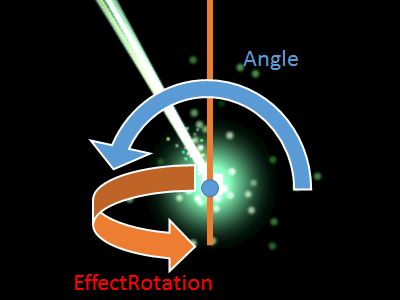
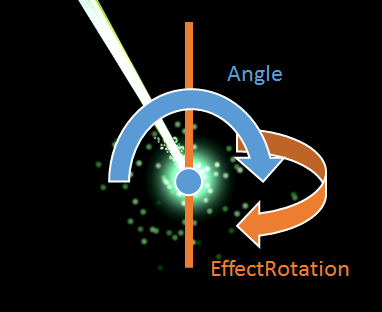
22章更新

Changed region(s): [[0.1728, 0.0, 0.9215, 0.99]]

diff --git a/Document/cs/22.md b/Document/cs/22.md
@@ -138,7 +138,7 @@ if (ace.Engine.Keyboard.GetKeyState(ace.Keys.Z) == ace.KeyState.Push)
 それでは、エフェクトを回転させてみます。ただ、提示されるソースコードでは2Dなのに回転方向を2つ指定しています。これは、3Dで作成されたエフェクトを2Dに表示するためです。
 回転軸が1つではエフェクトを任意の方向に回転させられません。その回転軸は以下のようになります。
 
-Angleは画面の正面方向を軸に半時計回り、EffectRotationは画面の上方向を軸に時計回りです。 
+Angleは画面の正面方向を軸に時計回り、EffectRotationは画面の上方向を軸に時計回りです。 
 
 ![Effekseer](img/22_angle.png)
 
@@ -150,7 +150,7 @@ if (ace.Engine.Keyboard.GetKeyState(ace.Keys.Z) == ace.KeyState.Push)
 {
 +	// エフェクトの角度を設定する。
 +	laser.EffectRotation = 90;
-+	laser.Angle = -90;
++	laser.Angle = 90;
 				
 	// エフェクトの拡大率を設定する。
 	laser.Scale = new ace.Vector2DF(10, 10);
